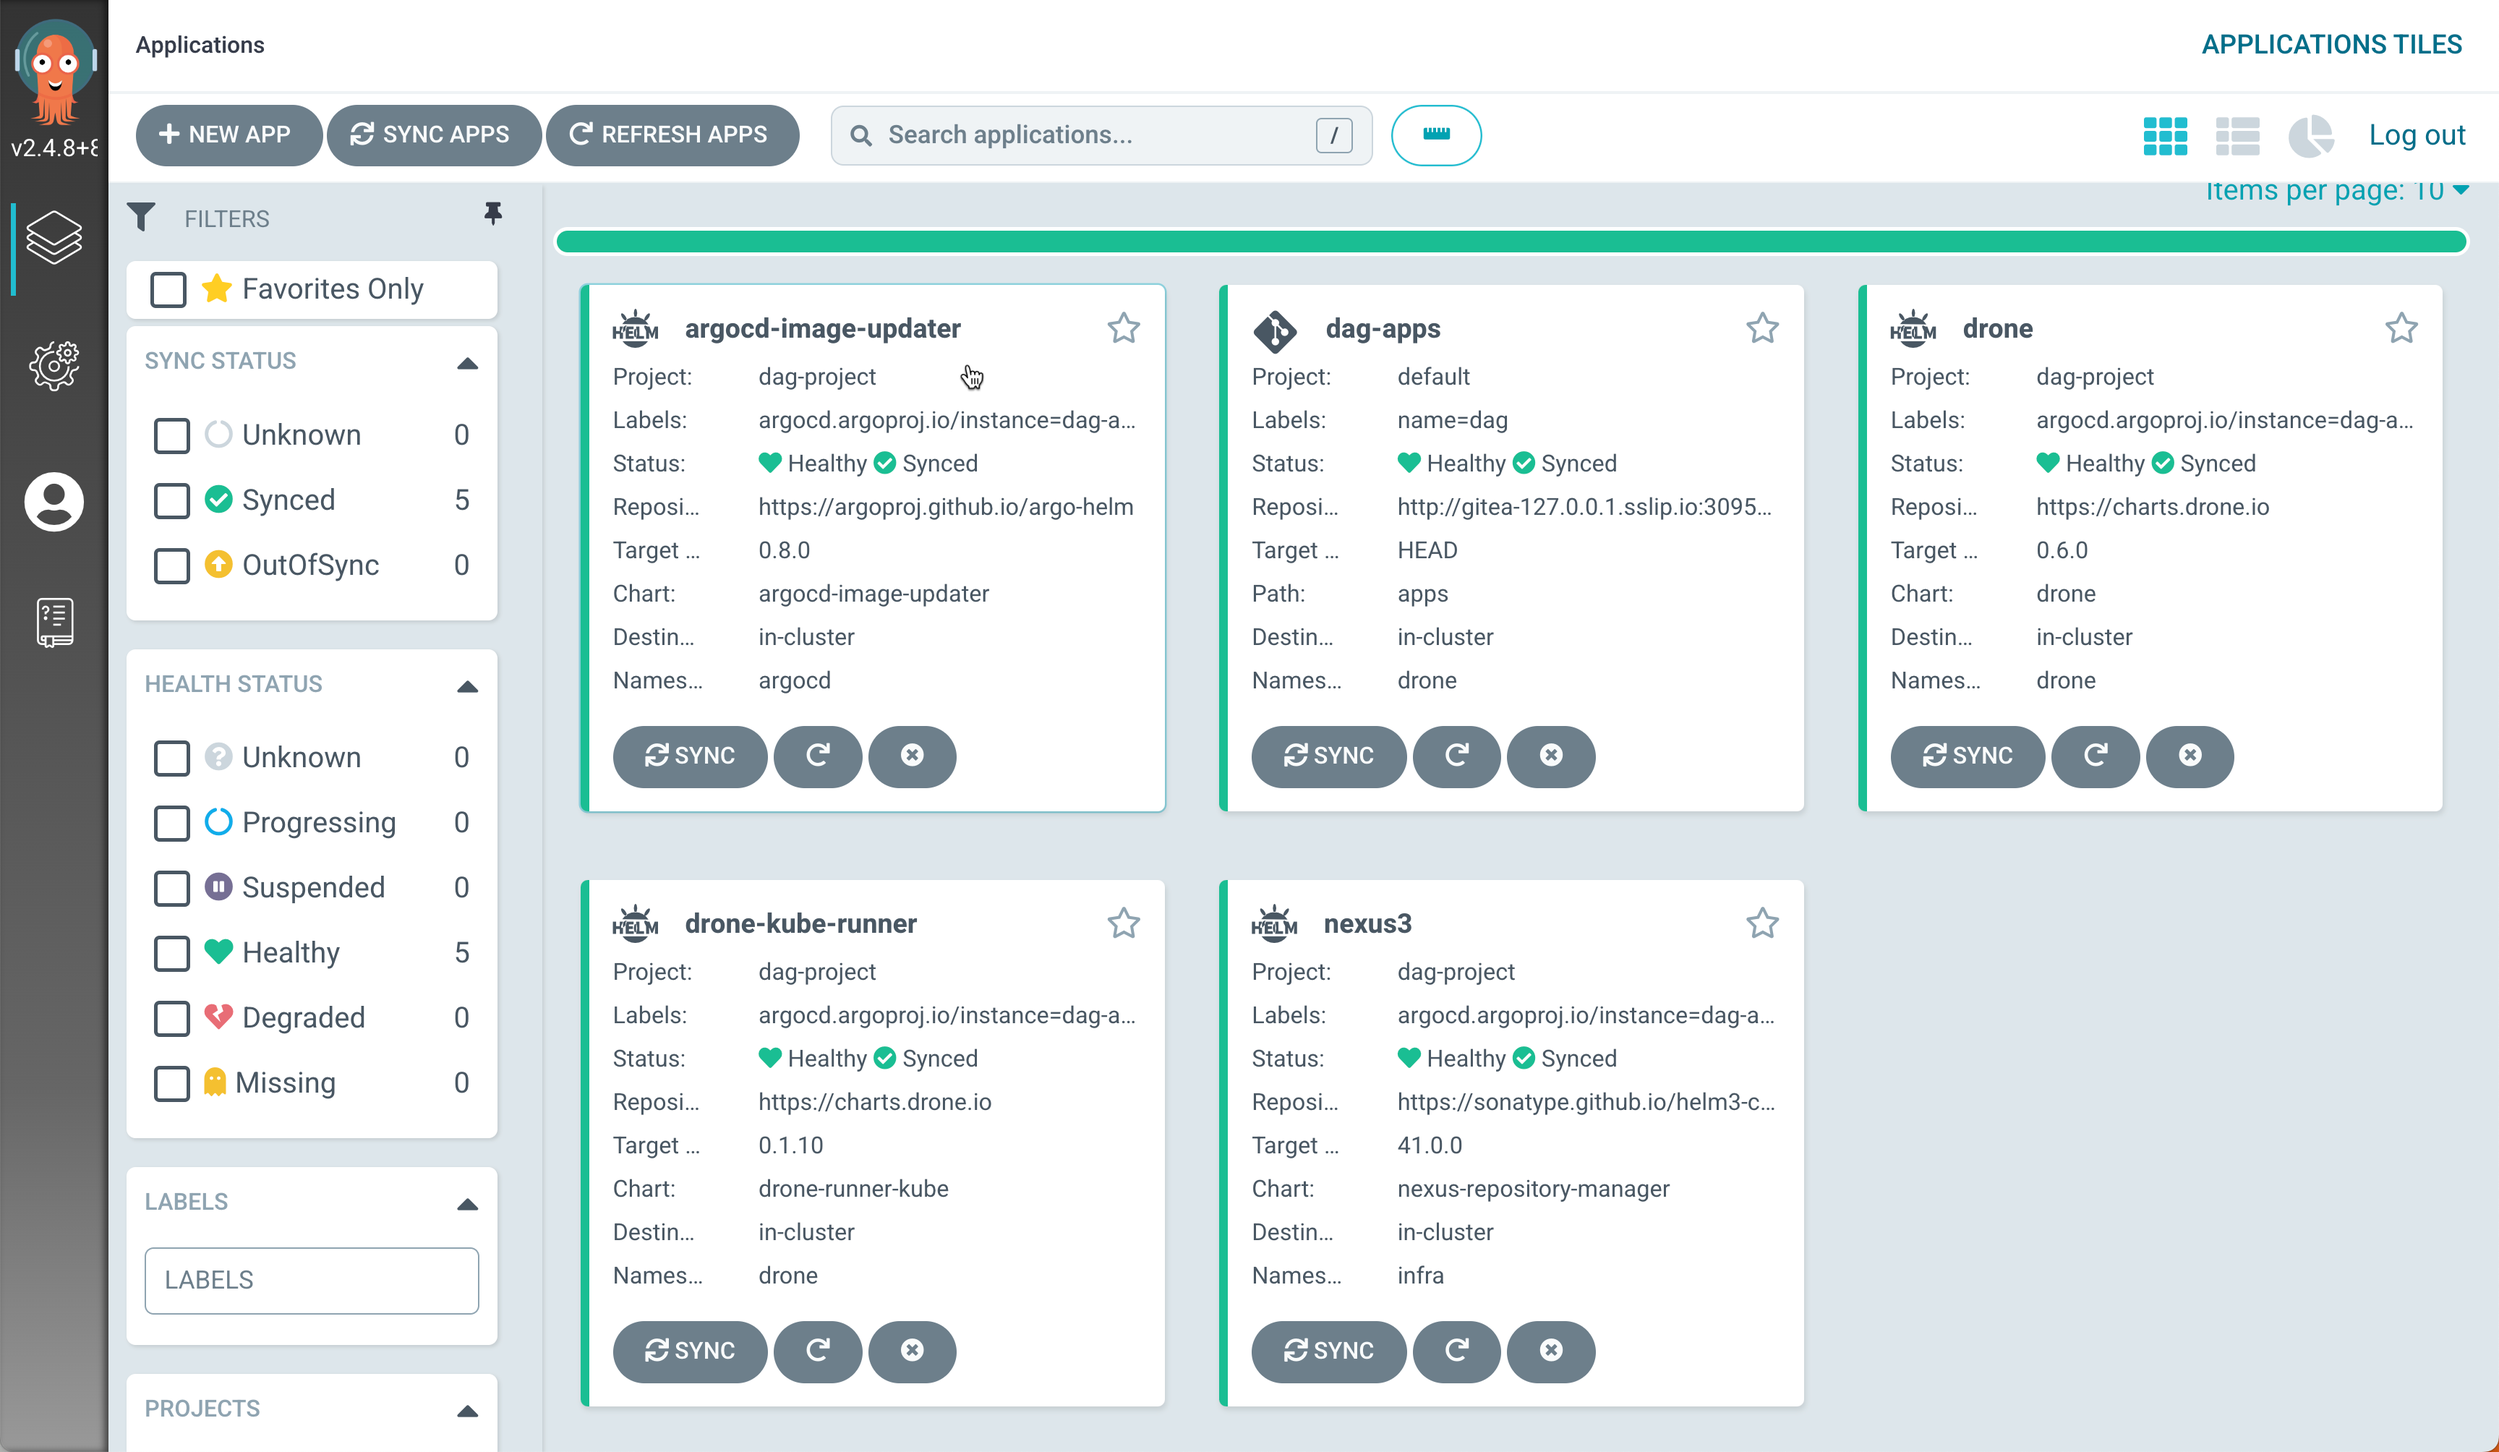
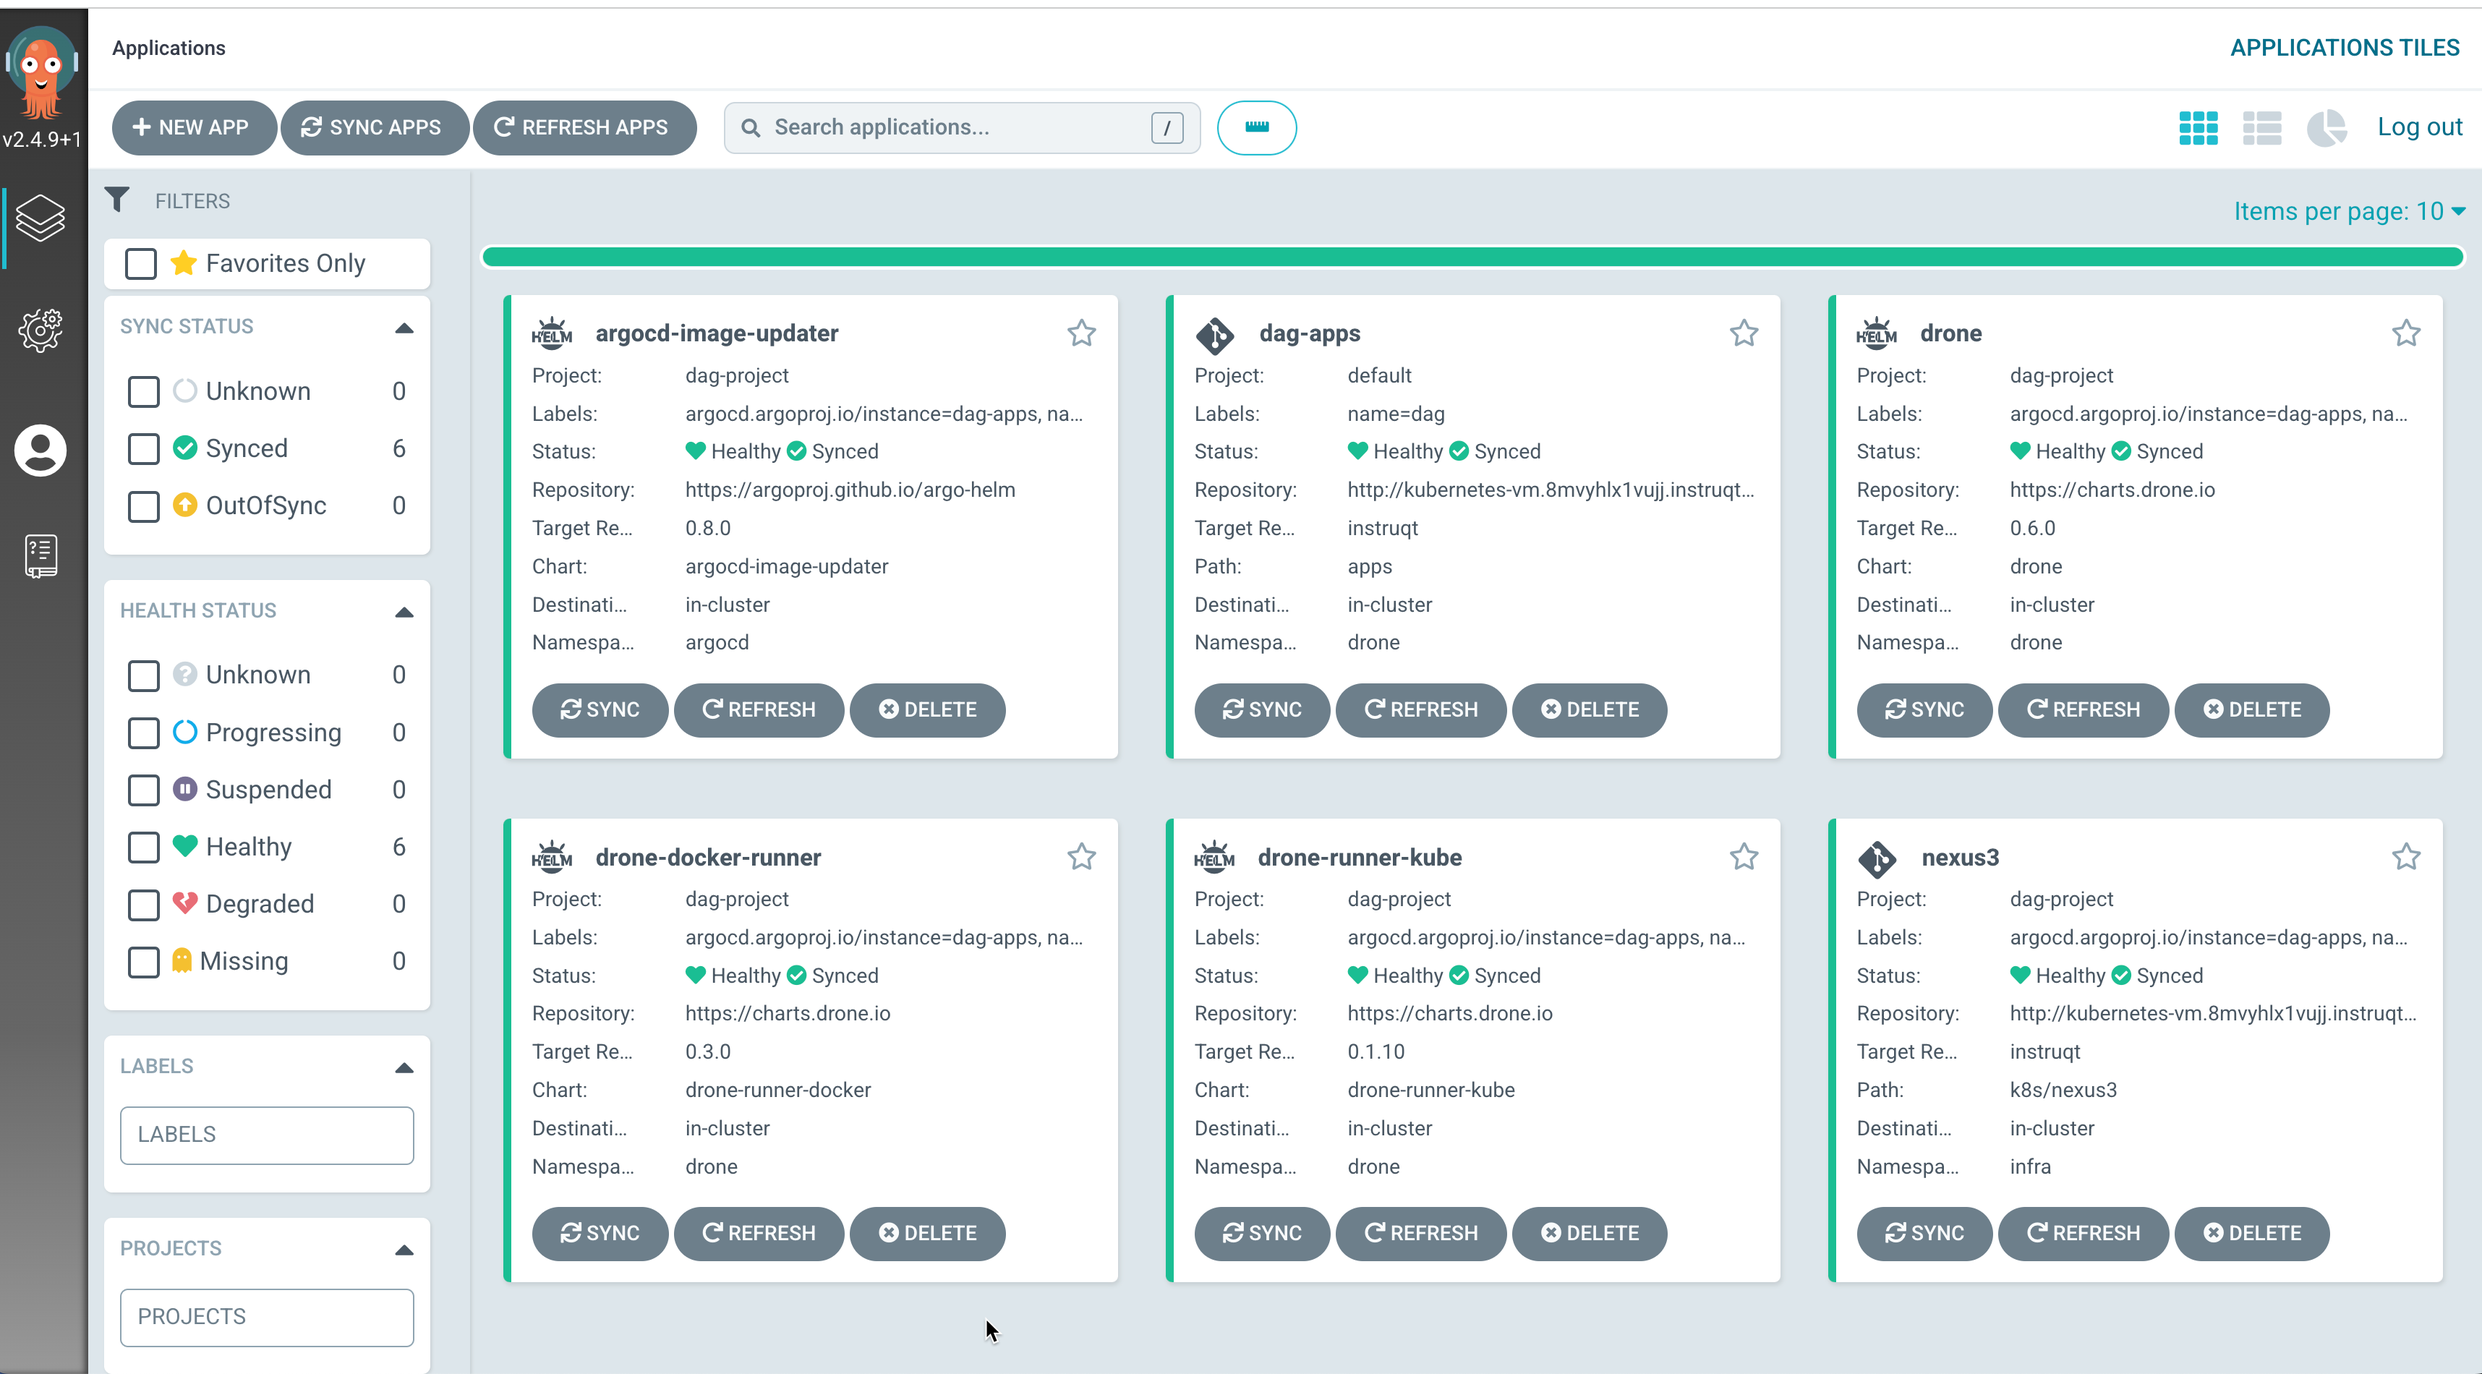
updates after e2e test 2

diff --git a/06-gitops-java-applications/assignment.md b/06-gitops-java-applications/assignment.md
@@ -182,12 +182,34 @@ Run the following command and make a note of the image **sha256** digest,
 kubectl get deploy -ndemo-apps  fruits-api -ojsonpath='{.spec.template.spec.containers[0].image}'
 ```
 
-> **NOTE**: It might take few seconds for the tag of the image to be refreshed with the sha256 digest.
+> **NOTE**: It might take few seconds for the tag of the image to be refreshed with the sha256 digest. You can also try doing **Hard Refresh** from the Argo CD Dashboard --> `quarkus-springboot-demo` app. That will update the application to the latest digest from the registry.
 
 Updating Application
 --------------------
 
-Using the tab **Java App**, edit the application source `${QSBD_GIT_REPO}/src/main/java/com/example/hellospringboot/GreeterController.java` and update the message from **"Hello from Captain Canary!!\uD83D\uDC25🚀";** to be like **"Captain Canary rocks with GitOps!!!\uD83D\uDC25🚀";**.
+Using the tab **Java App**, edit the application source `${QSBD_GIT_REPO}/src/main/java/com/example/hellospringboot/GreeterController.java` and update the class to as shown,
+
+```java
+package com.example.hellospringboot;
+
+import org.springframework.web.bind.annotation.GetMapping;
+import org.springframework.web.bind.annotation.RestController;
+
+/**
+ * GreeterController
+ */
+@RestController
+public class GreeterController {
+
+    @GetMapping
+    public String hello() {
+        return "Captain Canary rocks with GitOps!!!\uD83D\uDC25🚀";
+    }
+
+}
+```
+
+That is updating the message from  **Hello from Captain Canary!!\uD83D\uDC25🚀** to **Captain Canary rocks with GitOps!!!\uD83D\uDC25🚀**.
 
 On **Terminal 2** navigate to `${QSBD_GIT_REPO}`,
 
@@ -202,9 +224,9 @@ git commit -m  "Lets do GitOps" "src/main/java/com/example/hellospringboot/Greet
 git push origin ${QSBD_GITOPS_GIT_REV}
 ```
 
-The action above should trigger a drone build as we saw in the earlier challenge. You can check the same buy shifting to **Drone** tab. Once the build is successful you should see the updated image getting pushed to the registry.
+The action above should trigger a drone build. You can check the same by navigating to **Drone** dashboard. Once the build is successful you should see the updated image getting pushed to the registry.
 
-Click open the `quarkus-springboot-demo` application on the Argo CD dashboard and watch the deploy, in few seconds it should start to sync with the latest image change i.e. the image that was pushed to the image repository earlier.  It if you verify the `values.yaml` file in the `${QSBD_GITOPS_GIT_REPO}`, it should now been updated to latest image revision.
+Click open the `quarkus-springboot-demo` application on the Argo CD dashboard and watch the deploy, in few seconds it should start to sync with the latest image change i.e. the image that was pushed to the image repository via drone build.
 
 Run the following command and make a note of the image **sha256** digest of the updated app,
 
@@ -217,6 +239,12 @@ The image digest in the earlier step and the one from above should be different.
 You can also verify the image and its digests using the **Nexus Repository Manager** tab,
 
 ![Image Digests](../assets/qsbd_digests.png)
+
+As part of the rollout the earlier port-forward would have been killed. Let us do the port-forward again to the service `fruits-api`,
+
+```shell
+kubectl port-forward -n demo-apps svc/fruits-api 8080:8080 &
+```
 
 Now try the same `http :8080/` request and you will see the following output,
 
@@ -231,7 +259,33 @@ Keep-Alive: timeout=60
 Captain Canary rocks with GitOps!!!🐥🚀
 ```
 
-As used the [_Git write back_](https://argocd-image-updater.readthedocs.io/en/stable/configuration/applications/) method for updating the images, you will notice a new file called `.argocd-source-quarkus-springboot-demo.yaml` created under the app folder of the <http://kubernetes-vm.${_SANDBOX_ID}.instruqt.io:30950/user-01/quarkus-springboot-demo-gitops> repository.
+As used the [_Git write back_](https://argocd-image-updater.readthedocs.io/en/stable/configuration/applications/) method for updating the images, you will notice a new file called `.argocd-source-quarkus-springboot-demo.yaml` created under the app folder of the `quarkus-springboot-demo-gitops` repository.
+
+Shift to `Terminal 1`,
+
+```shell
+git pull --rebase origin instruqt
+```
+
+Let us get the latest digest that has been applied to our manifests,
+
+```shell
+yq '.helm.parameters[1].value' app/.argocd-source-quarkus-springboot-demo.yaml
+```
+
+And now Let us get the latest digest from our private registry,
+
+```shell
+~/go/bin/crane digest localhost:31081/example/quarkus-springboot-demo
+```
+
+Finally let us get the sha256 from our deployment manifest,
+
+```shell
+kubectl get deploy -ndemo-apps  fruits-api -ojsonpath='{.spec.template.spec.containers[0].image}' | cut -d'@' -f2
+```
+
+The out of all the three commands i.e. the image sha256 digest, should be same.
 
 Congratulations. You now successfully applied GitOps(Continuous Deployment) using Argo CD and integrated it with Drone CI to support with Continuous Integration.
 

diff --git a/02-deploying-argocd/assignment.md b/02-deploying-argocd/assignment.md
@@ -52,7 +52,15 @@ timelimit: 600
 👋 Introduction
 ===============
 
-To do GitOps we will be using [Argo CD](https://argo-cd.readthedocs.io/en/stable/user-guide/projects/).
+GitOps is a way of implementing Continuous Deployment for cloud native applications. It focuses on a developer-centric experience when operating infrastructure, by using tools developers are already familiar with, including Git and Continuous Deployment tools.
+
+The core idea of GitOps is having a Git repository that always contains declarative descriptions of the infrastructure currently desired in the production environment and an automated process to make the production environment match the described state in the repository. If you want to deploy a new application or update an existing one, you only need to update the repository - the automated process handles everything else. It’s like having cruise control for managing your applications in production.
+
+> GitOps: versioned CI/CD on top of declarative infrastructure. Stop scripting > and start shipping.
+>
+> — [Kelsey Hightower](https://twitter.com/kelseyhightower/status/953638870888849408)
+
+As part of this workshop we will be using [Argo CD](https://argo-cd.readthedocs.io/en/stable/user-guide/projects/) as our GitOps platform.
 
 Ensure Environment
 ===================
@@ -96,6 +104,9 @@ The cluster bootstrapping installs the core DAG stack applications ([App of Apps
 - Droner Runners
 - Artifactory as Maven Repository Manager
 
+Environment Variables
+---------------------
+
 Few environment variables that use to bootstrap as shown below, they are already set in your shell via `$DAG_HOME/.envrc`,
 
 ```shell
@@ -107,7 +118,7 @@ export GITEA_USER=user-01
 ```
 
 Create Argo Apps
-================
+----------------
 
 Update the DAG App `$DAG_HOME/helm_vars/dag/values.yaml` with values matching to the environment.
 
@@ -143,14 +154,14 @@ Trigger app sync
 argocd app sync dag-apps
 ```
 
-**NOTE**: The sync operation will take few minutes
+> **IMPORTANT**: The sync operation will take few minutes. Please wait for the sync to be complete before proceeding further.
 
 A successful Argo CD deployment of apps should look as shown below,
 
 ![ArgoCD Apps](../assets/dag_apps.png)
 
 Validate Drone Setup
-====================
+--------------------
 
 What we have done until now,
 
@@ -158,9 +169,10 @@ What we have done until now,
 - Setup `dag-apps` Argo CD that in turn setup
   - Drone Server
   - Drone Kube Runner
+  - Drone Docker Runner
 
 Add Drone Admin User
-====================
+--------------------
 
 From the account settings named `Example CLI Usage` from the Drone Account Settings page,
 
@@ -184,22 +196,50 @@ direnv allow .
 Run the drone command to verify we are able to use drone cli,
 
 ```shell
-drone info
+drone user ls
 ```
 
-The command above fails with `Unauthorised` message.
+As the current user `user-01` is not an admin, the command above fails with `client error 403: {"message":"Forbidden"}` message. The current user need to be an admin user to be able to perform few administrative tasks as part of other challenges.
+
+Edit the `.envrc.local` file and add the following environment variable,
+
+```shell
+export ENABLE_DRONE_ADMIN=true
+```
 
 Update the DAG App `$DAG_HOME/helm_vars/dag/values.yaml` with values matching to the environment,
 
 ```shell
-export ENABLE_DRONE_ADMIN=true
-envsubst < $DAG_HOME/helm_vars/dag/values.tpl.yaml > $DAG_HOME/helm_vars/dag/values.yaml
+envsubst < "$DAG_HOME/helm_vars/dag/values.tpl.yaml" > "$DAG_HOME/helm_vars/dag/values.yaml"
 ```
 
-In few seconds you could see Argo CD rollout update to `drone`. Running drone info again should display `user-01` and the email of the user `user-01@example.com`.
+Commit and push the code,
 
 ```shell
-drone info
+git commit -m "Enable Admin" "$DAG_HOME/helm_vars/dag/values.yaml"
+git push origin "${DAG_TARGET_VERSION}"
+```
+
+Go to the **Argo CD** tab and watch the "dag-apps", in few seconds you could see Argo CD rollout update to `drone` app.
+
+> **NOTE**: You can also click on refresh to see the updates.
+
+Running `drone user ls` command again now be successful and listing the only user `user-01`.
+
+```shell
+drone user ls
+```
+
+You can also verify of the `user-01` is an admin or not by running the command,
+
+```shell
+drone info --format "Admin: {{ .Admin }}"
+```
+
+The command should show an output like,
+
+```shell
+Admin: true
 ```
 
 🏁 Finish

diff --git a/04-deploy-quickstart/assignment.md b/04-deploy-quickstart/assignment.md
@@ -71,6 +71,12 @@ git clone http://kubernetes-vm.${_SANDBOX_ID}.instruqt.io:30950/user-01/dag-setu
 cd dag-setup-verifier
 ```
 
+Use the `instruqt` branch,
+
+```shell
+git checkout instruqt
+```
+
 Edit the `.envrc.local` file to match your settings,
 
 ```shell
@@ -78,7 +84,7 @@ export DRONE_SERVER=http://kubernetes-vm.${_SANDBOX_ID}.instruqt.io:30980
 export DRONE_TOKEN="your drone token from drone account settings page"
 ```
 
-> **TIP**: You can copy the .envrc.local from $GIT_REPOS_HOME/dag-stack.git, as we have already copied the token from drone account settings page.
+> **TIP**: You can copy the `.envrc.local` from `$GIT_REPOS_HOME/dag-stack.git`, as we have already copied the token from drone account settings page.
 > ```shell
 > cp $GIT_REPOS_HOME/dag-stack/.envrc.local .
 > ```
@@ -101,6 +107,7 @@ kind: pipeline
 type: kubernetes
 name: default
 
+# update this if you want to do arm64 build
 platform:
   os: linux
   arch: amd64
@@ -108,7 +115,7 @@ platform:
 # Trigger only main
 trigger:
   branch:
-  - main
+  - instruqt
 
 steps:
 
@@ -121,7 +128,7 @@ steps:
       insecure: true
       mtu: 1410
       build_args:
-        MAVEN_REPOS: "nexus=http://nexus.infra:8081/repository/maven-public/"
+        - "MAVEN_REPOS=nexus=http://nexus.infra:8081/repository/maven-public/"
       username:
         from_secret: image_registry_user
       password:
@@ -154,7 +161,7 @@ drone secret add --name image_registry_user --data "${IMAGE_REGISTRY_USER}" "${D
 drone secret add --name image_registry_password --data "${IMAGE_REGISTRY_PASSWORD}" "${DRONE_GIT_REPO}"
 ```
 
-> **TIP**: You can also use the scripts from $DAG_HOME/work/dag-setup-verifier/scripts/add-secrets.sh.
+> **TIP**: You can also use the scripts from `$DAG_HOME/work/dag-setup-verifier/scripts/add-secrets.sh`.
 
 Make sure the `mtu` value for the Docker plugin is set to right value in as per the environment,
 
@@ -174,7 +181,7 @@ Commit and push the code to see the build trigger,
 
 ```shell
 git commit --allow-empty -m "Verify Setup" -m "Verify Setup"
-git push origin main
+git push origin instruqt
 ```
 
 Check the build status in the Drone Dashboard,

diff --git a/05-ci-java-applications/assignment.md b/05-ci-java-applications/assignment.md
@@ -74,17 +74,13 @@ Navigate to the cloned repo directory
 cd quarkus-springboot-demo
 ```
 
-Load the environment variables,
-
-```shell
-direnv allow .
-```
-
 Check out the `instruqt` of the application,
 
 ```shell
 git checkout instruqt
 ```
+
+> **NOTE**: errors like _direnv: error /root/repos/quarkus-springboot-demo/.envrc is blocked. Run `direnv allow` to approve its content_ are expected and they are fixed by running `direnv allow .` as shown below.
 
 Reload the environment variables,
 
@@ -99,7 +95,7 @@ export DRONE_SERVER="http://kubernetes-vm.${_SANDBOX_ID}.instrqut.io:30980"
 export DRONE_TOKEN="drone token from the drone account settings page"
 ```
 
-> **TIP**: You can copy the .envrc.local from $GIT_REPOS_HOME/dag-stack.git, as we have already copied the token from drone account settings page.
+> **TIP**: You can copy the `.envrc.local` from `$GIT_REPOS_HOME/dag-stack.git`, as we have already copied the token from drone account settings page.
 > ```shell
 > cp $GIT_REPOS_HOME/dag-stack/.envrc.local .
 > ```
@@ -185,6 +181,11 @@ Now push the local modifications to the git.
 git commit -a -m "Init Pipeline"
 git push origin "${QSBD_GIT_REV}"
 ```
+
+> **NOTE**: If you see message _nothing to commit, working tree clean_, you can trigger a build with empty commit like:
+>```shell
+> git commit --allow-empty -m "Init Pipeline" -m "Init Pipeline"
+>```
 
 The git **push** event will trigger a build on Drone. Open the **Drone** tab and navigate to `quarkus-springboot-demo` to see the build running.
 
